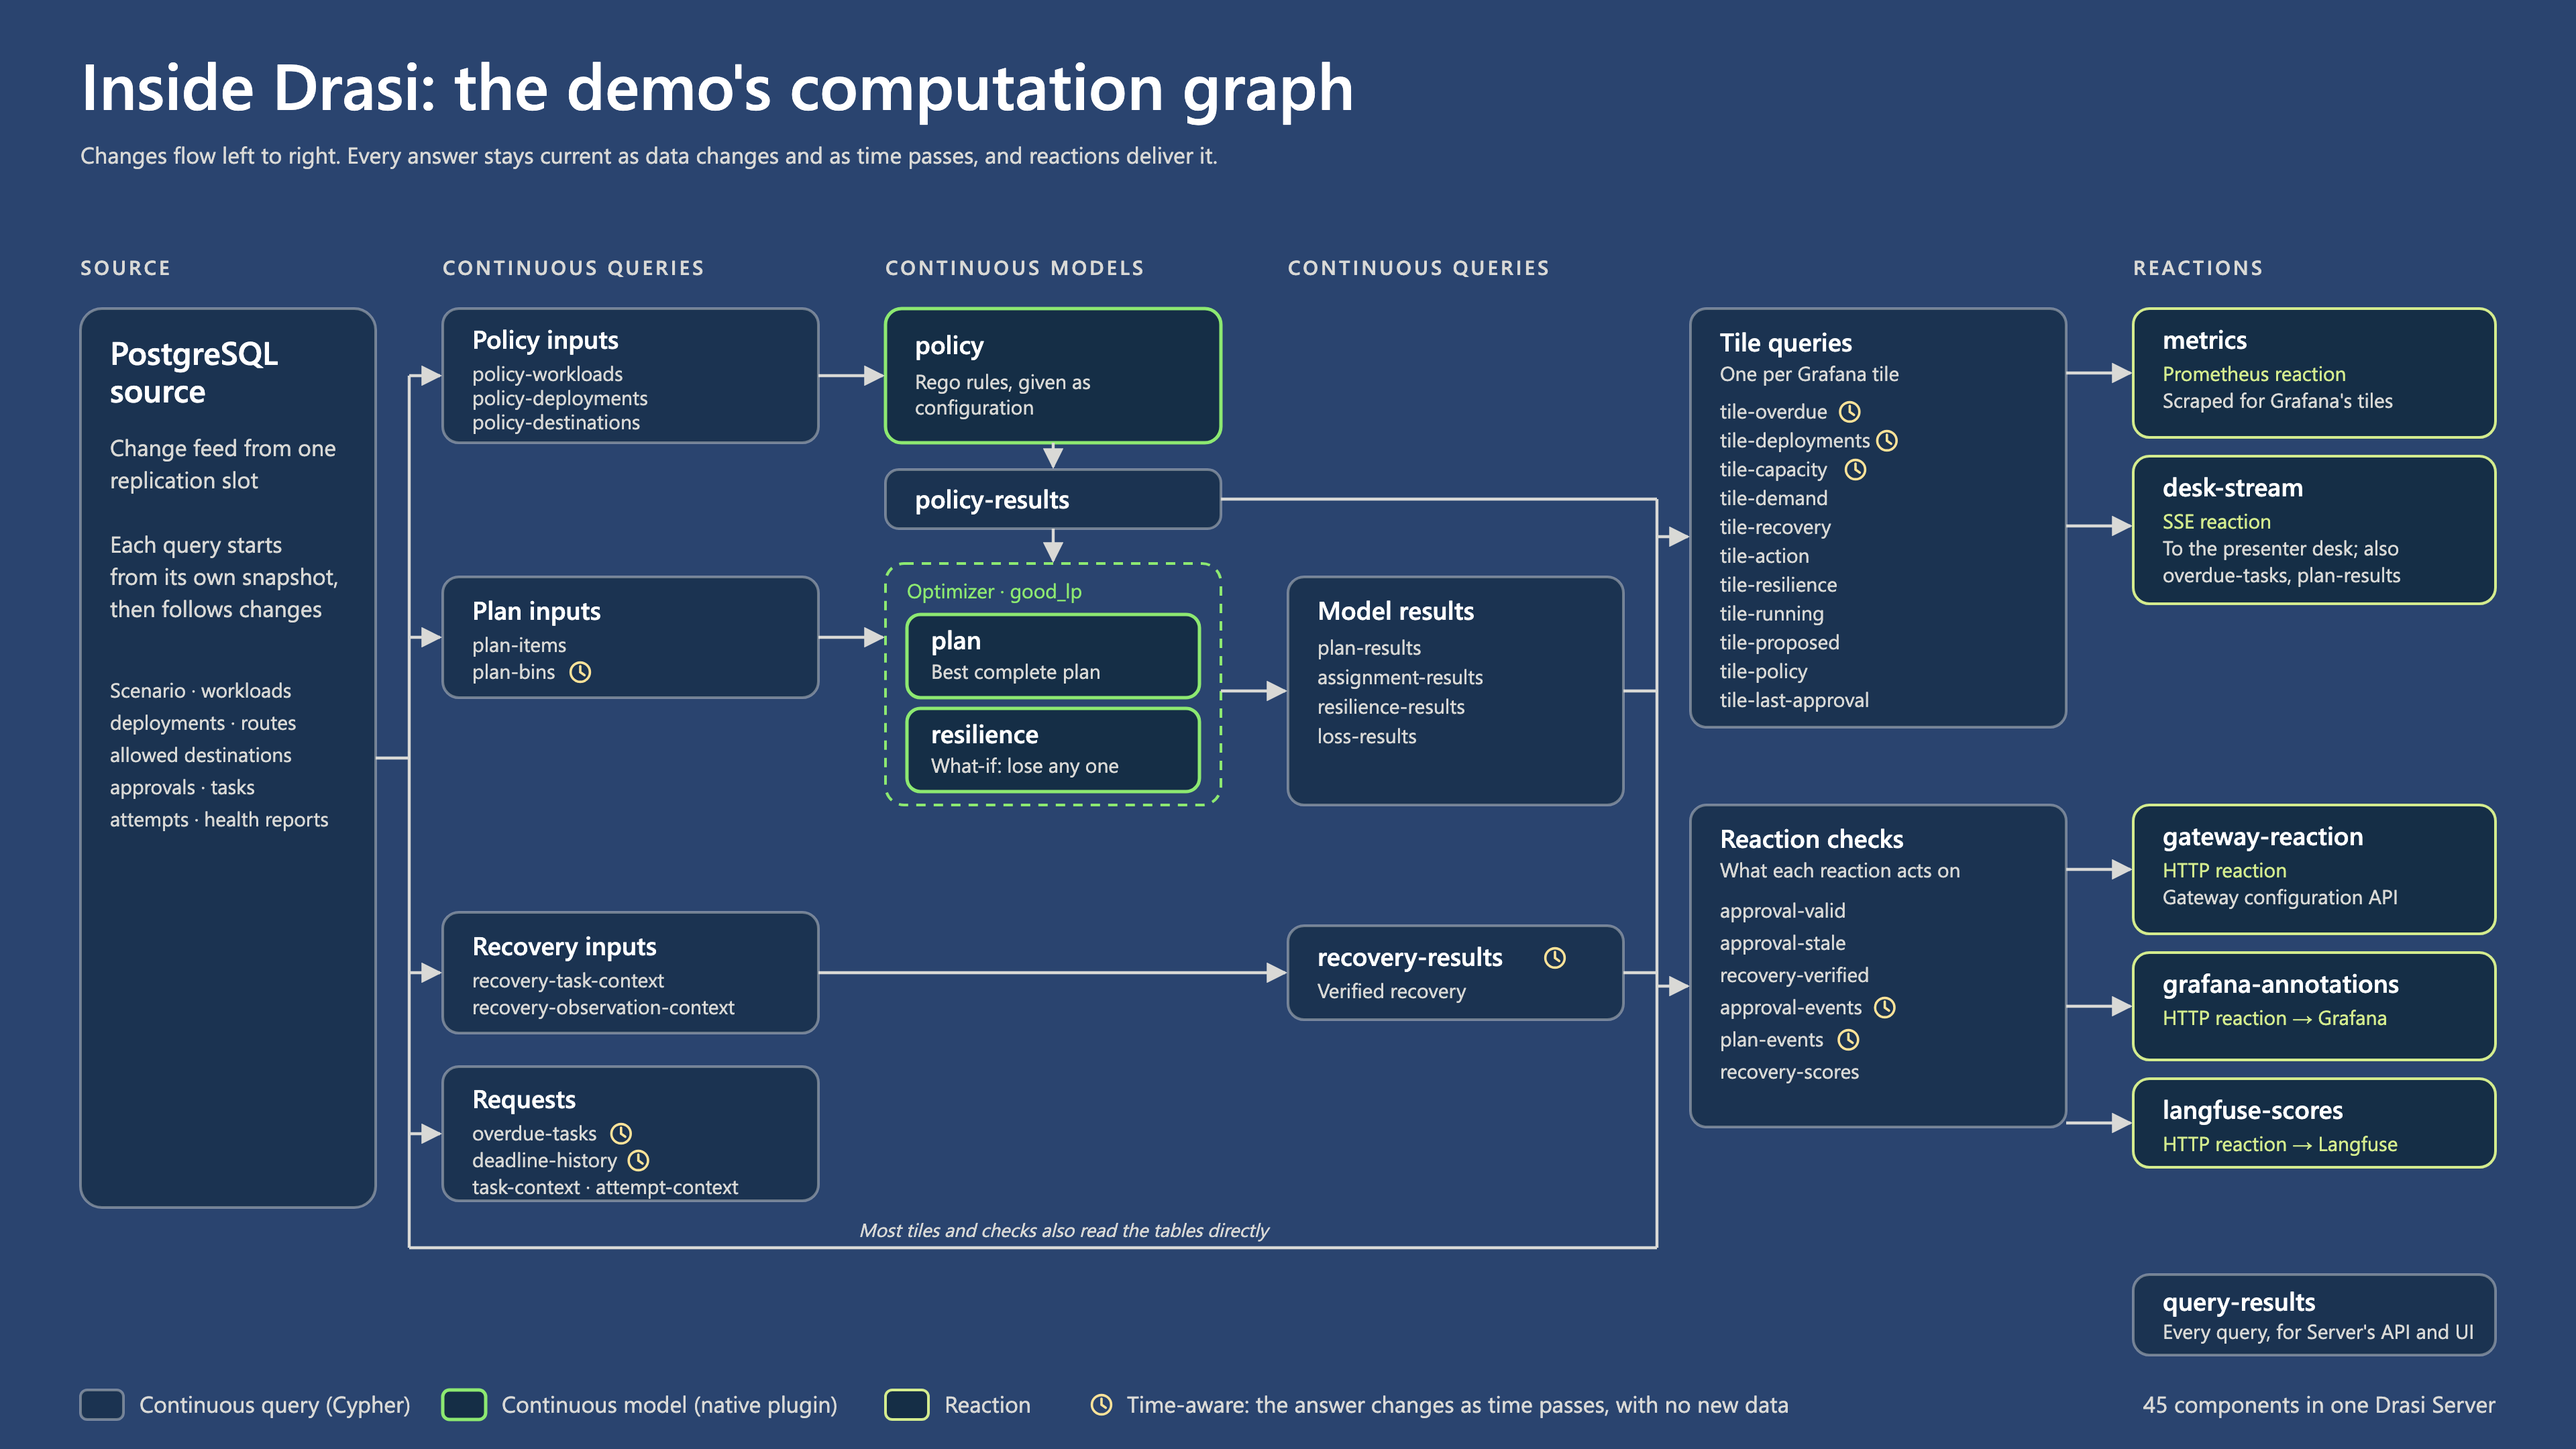
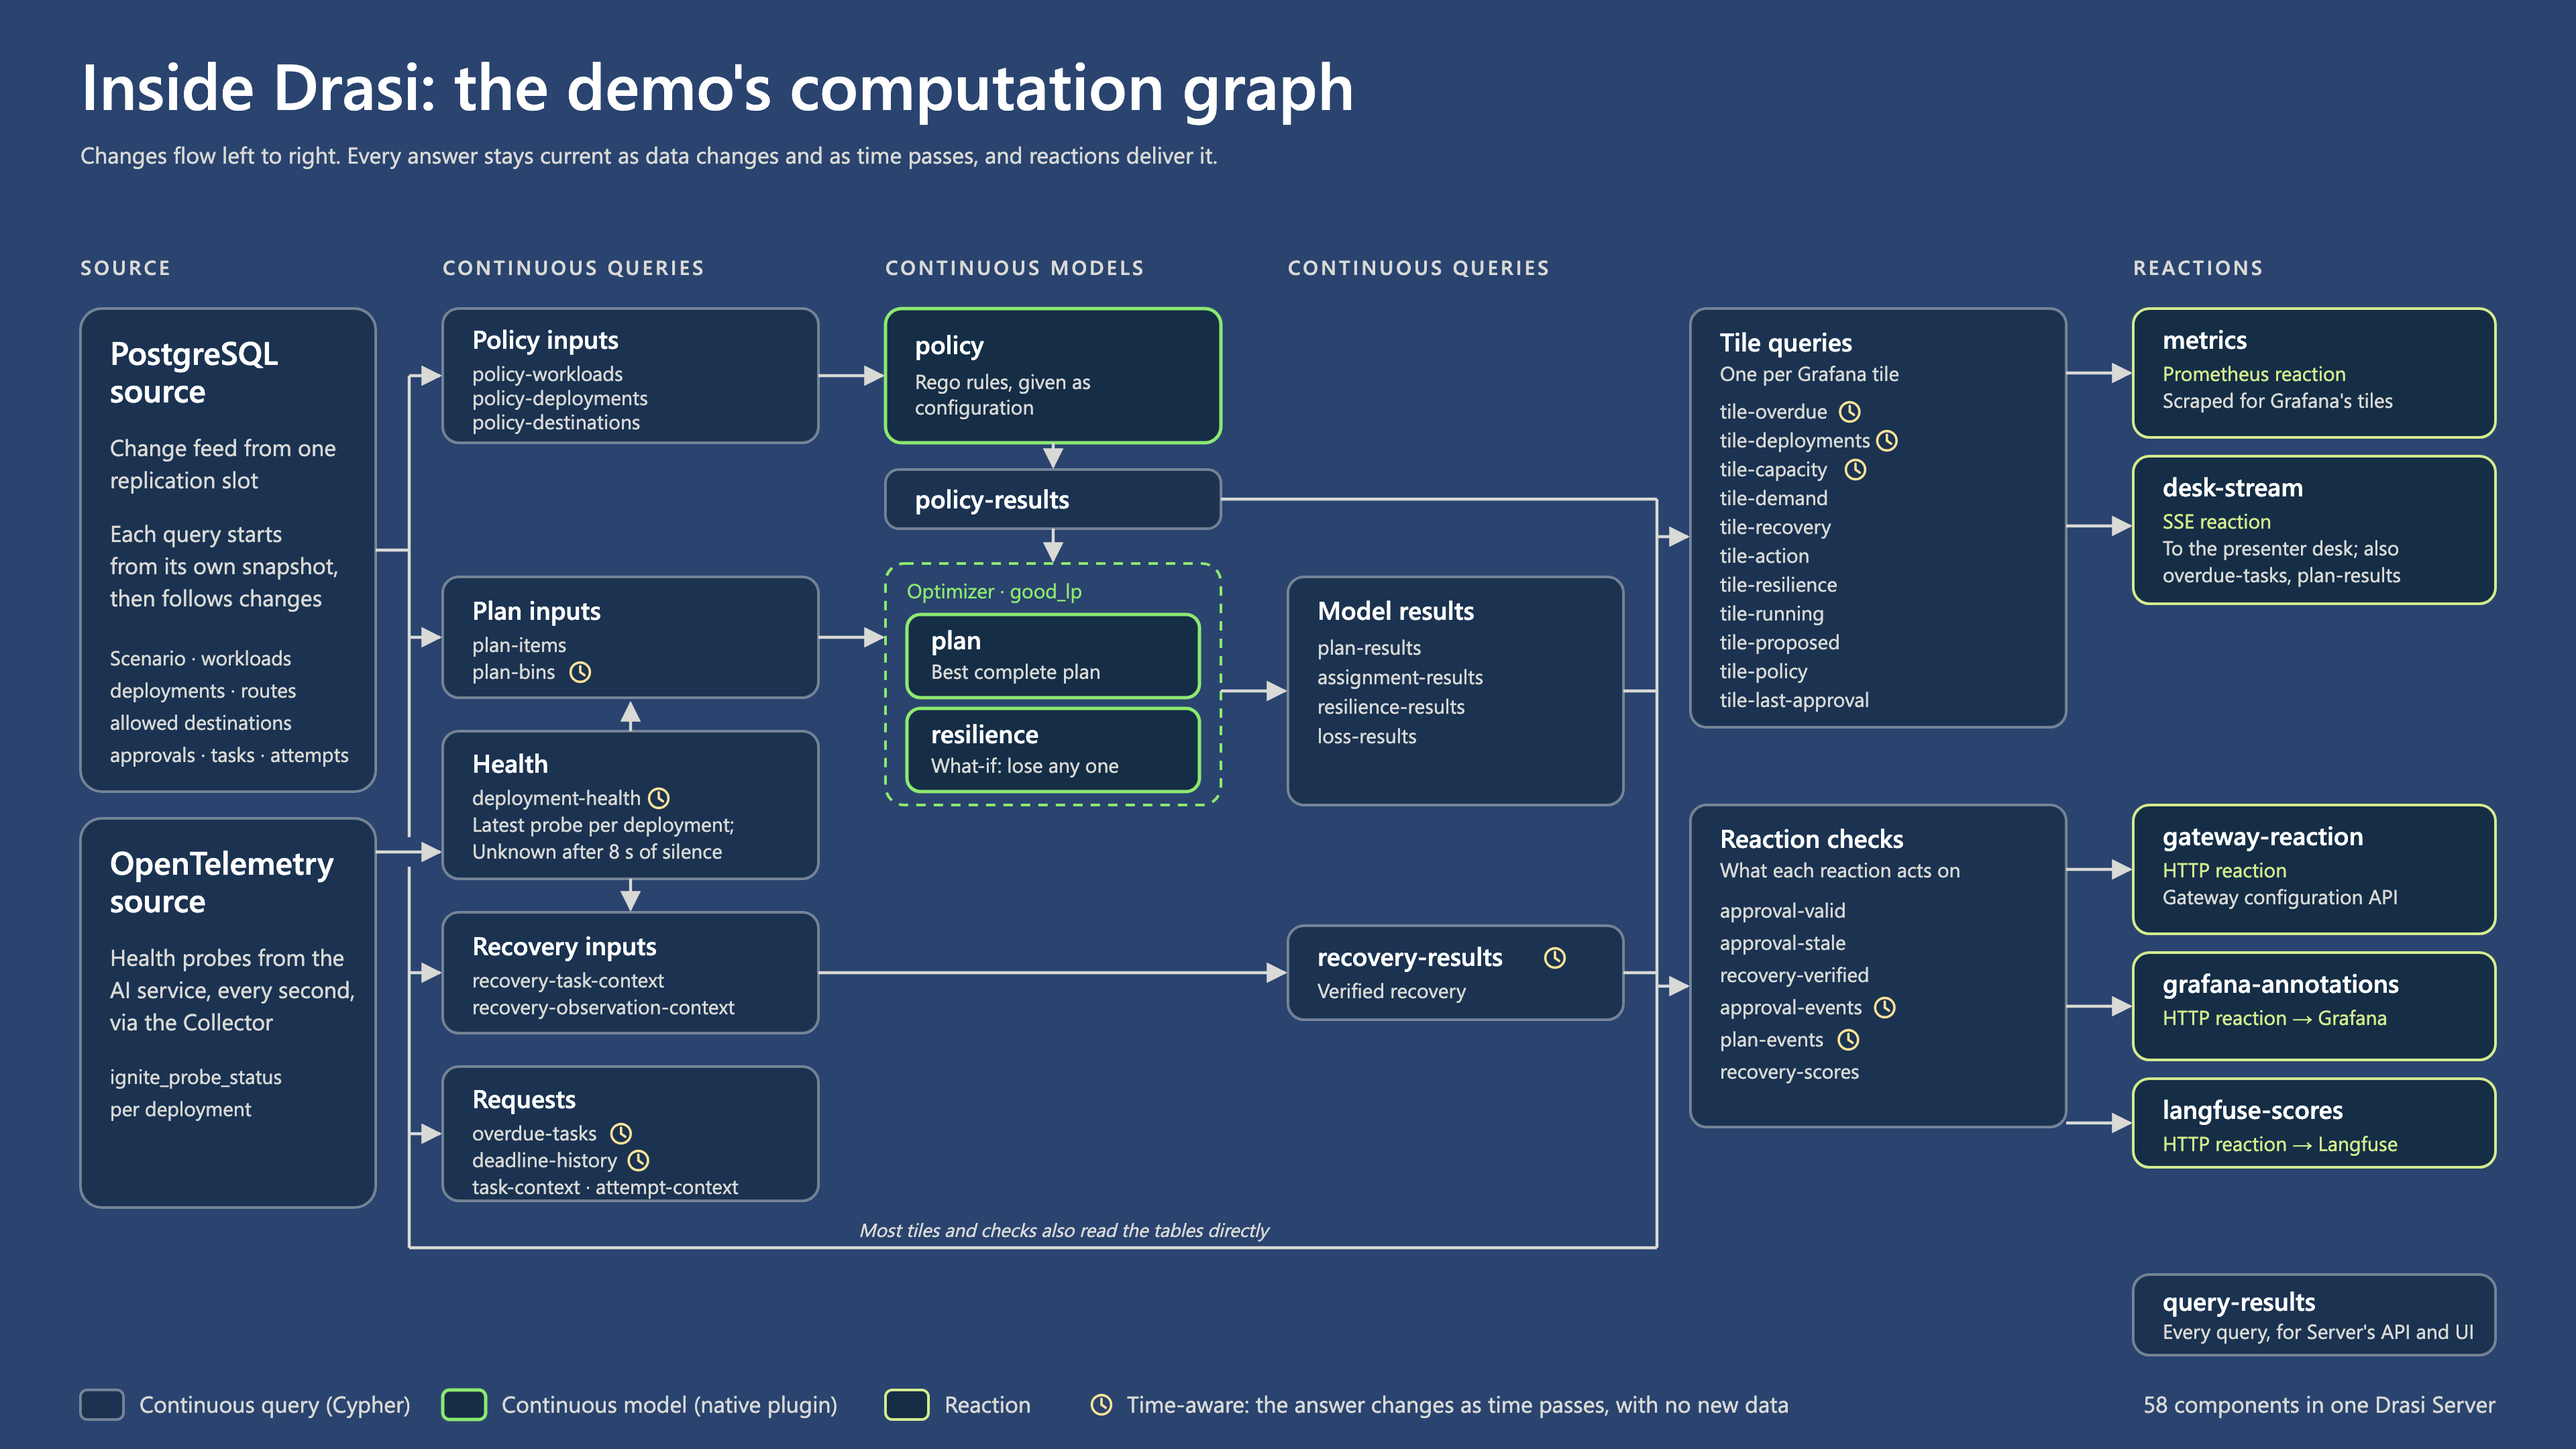
Ignite graphics: deployment health comes from OpenTelemetry probes
The setup slide's database no longer carries health reports; health probes go to the OpenTelemetry Collector and on to Drasi. The Drasi graph adds the OpenTelemetry source and the deployment-health query feeding plan and recovery inputs, and counts 58 components. PNG re-rendered at 3840x2160.

Changed region(s): [[0.0312, 0.3722, 0.3438, 0.7134], [0.0312, 0.7444, 0.0938, 0.7755]]

diff --git a/presentations/2026-11-19_Ignite/presentation/Explanation.tsx b/presentations/2026-11-19_Ignite/presentation/Explanation.tsx
@@ -142,26 +142,27 @@ export function Explanation({ slide, active = false }: { slide: SlideId; active?
         <text className="dep-name" x="542" y="318">{nb("US-C")}</text>
         <text className="dep-work gray" x="542" y="362">Spare</text>
         <rect className="box" x="28" y="514" width="684" height="84" />
-        <text className="box-name" x="56" y="567">Database <tspan className="box-note">every request, health report, policy change</tspan></text>
+        <text className="box-name" x="56" y="567">Database <tspan className="box-note">every request, policy change, approval</tspan></text>
 
         <rect className="group" x="960" y="0" width="776" height="300" />
         <text className="group-label" x="988" y="48">YOUR OBSERVABILITY</text>
-        <rect className="box" x="988" y="76" width="344" height="196" />
-        <text className="box-name" x="1016" y="130">Prometheus</text><text className="box-name" x="1016" y="170">and Grafana</text>
-        <text className="box-note" x="1016" y="220">Metrics, dashboards, alerts</text>
-        <rect className="box" x="1356" y="76" width="352" height="196" />
-        <text className="box-name" x="1384" y="130">Incident</text><text className="box-name" x="1384" y="170">channel</text>
-        <text className="box-note" x="1384" y="220">Where the team responds</text>
+        <rect className="box" x="988" y="76" width="380" height="196" />
+        <text className="box-name" x="1016" y="130">OpenTelemetry,</text><text className="box-name" x="1016" y="170">Prometheus, Grafana</text>
+        <text className="box-note" x="1016" y="220">Dashboards and alerts</text>
+        <rect className="box" x="1392" y="76" width="316" height="196" />
+        <text className="box-name" x="1420" y="130">Incident</text><text className="box-name" x="1420" y="170">channel</text>
+        <text className="box-note" x="1420" y="220">Where the team</text><text className="box-note" x="1420" y="248">responds</text>
 
         <rect className="drasi" x="960" y="380" width="776" height="218" />
         <text className="drasi-name" x="992" y="446">Drasi</text>
         <text className="drasi-note" x="992" y="500">Reacts to every change and keeps the</text>
         <text className="drasi-note" x="992" y="540">answers current, where the team looks</text>
 
-        <path className="flow" d="M712,118 H982" /><text className="edge" x="760" y="100">Metrics, traces</text>
+        <path className="flow" d="M712,118 H982" /><text className="edge" x="760" y="76">Metrics, traces,</text><text className="edge" x="760" y="102">health probes</text>
+        <path className="flow" d="M1020,300 V374" /><text className="edge" x="1006" y="342" textAnchor="end">Health probes</text>
         <path className="flow" d="M712,556 H954" /><text className="edge" x="760" y="538">Every change</text>
         <path className="flow answer" d="M1160,380 V278" /><text className="edge answer" x="1174" y="342">Answers</text>
-        <path className="flow answer" d="M1420,380 V278" /><text className="edge answer" x="1434" y="342">Who's affected, what to do</text>
+        <path className="flow answer" d="M1520,380 V278" /><text className="edge answer" x="1534" y="328">Who's affected,</text><text className="edge answer" x="1534" y="354">what to do</text>
         <path className="flow" d="M370,160 V198" />
       </svg>
     </div>
